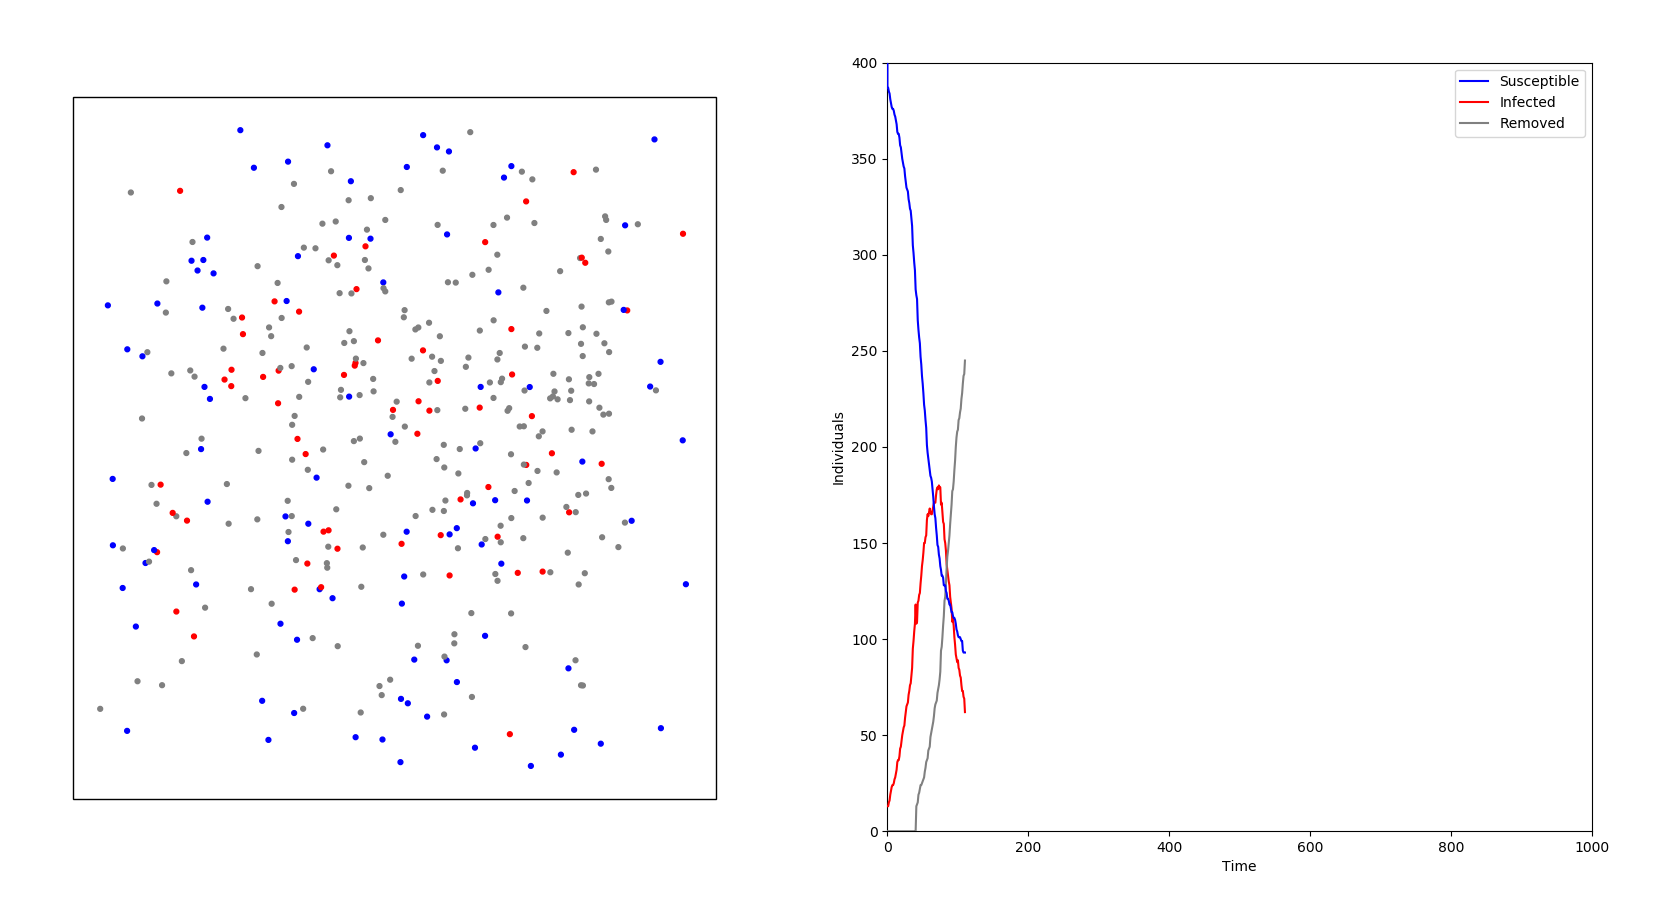
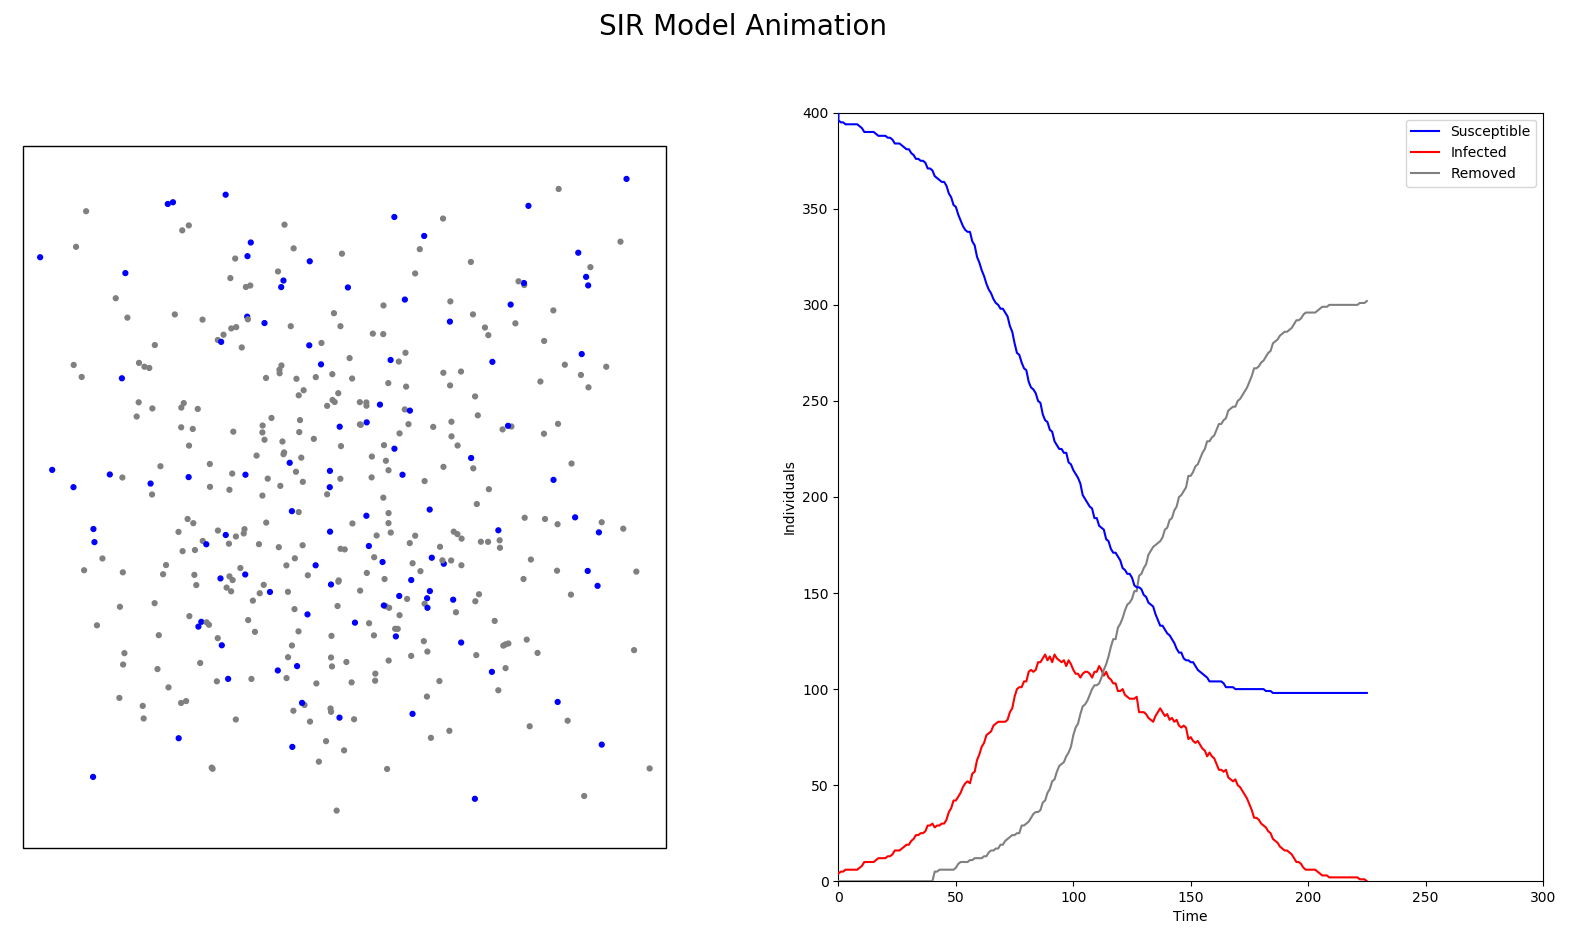
added save figure option and fixed quarantine probability feature.

diff --git a/Simulation.py b/Simulation.py
@@ -1,17 +1,21 @@
 from Individual import Individual
+import os
 import numpy as np
 import matplotlib.pyplot as plt
+from matplotlib import gridspec
 from matplotlib.animation import FuncAnimation
-from matplotlib.widgets import Button, Slider
+from datetime import datetime
 
 
 class SIRSimulation:
 
     def __init__(self, n_individuals=400, prct_infected=2, r_infection=2.5,
-                 p_infection=6, p_quarantine=0, t_recovery=40, different_recovery_times=False):
+                 p_infection=6, p_quarantine=0, t_recovery=40, different_recovery_times=False, save_figure=False,
+                 simulation_mode=False):
         # SIMULATION PARAMETERS
         self.isRunning = False
         self.wasStarted = False
+        self.simulation_mode = simulation_mode
         self.animation = None
         self.N_INDIVIDUALS = n_individuals  # number of individuals
         self.PRCT_INFECTED = prct_infected  # percentage of infected people at the beginning of the simulation (0-100%)
@@ -20,6 +24,8 @@ class SIRSimulation:
         self.P_QUARANTINE = p_quarantine  # percentage of the people in quarantine (0-100%)
         self.T_RECOVERY = t_recovery  # time taken to recover in number of frames (0-infinity)
         self.different_recovery_times = different_recovery_times  # rand recovery t for each ind btw.. 1 and t_recovery
+        self.save_figure = save_figure
+        self.fig_path = os.path.join(os.getcwd(), 'figs')
         self.n_infected = 0
         self.individuals = []
         self._init_individuals()
@@ -28,6 +34,7 @@ class SIRSimulation:
     def _init_individuals(self):
         # creating all the individuals in random positions and infecting some of them.
         for i in range(self.N_INDIVIDUALS):
+            # sample different infectrion probabilities for each individual, if True
             if self.different_recovery_times:
                 if np.random.uniform(0, 1, 1) > 0.5:
                     recovery_time = np.random.randint(1, self.T_RECOVERY)
@@ -35,39 +42,66 @@ class SIRSimulation:
                     recovery_time = self.T_RECOVERY
             else:
                 recovery_time = self.T_RECOVERY
+            # Dicide for each individual if quarantine or not with given quarantine probability
+            if self.P_QUARANTINE > 0:
+                prob_quarantine = np.random.choice(np.arange(0, 2), p=[1 - float(self.P_QUARANTINE / 100),
+                                                                       float(self.P_QUARANTINE / 100)])
+                prob_quarantine = bool(prob_quarantine)
+            else:
+                prob_quarantine = False
 
             p = Individual(i, np.random.random() * 100, np.random.random() * 100,
                            np.random.random() * 100, np.random.random() * 100,
-                           (np.random.random() + 0.5) * 100, recovery_time, False)
+                           (np.random.random() + 0.5) * 100, recovery_time, prob_quarantine)
 
+            # Infect individual by given prct
             if np.random.random() < self.PRCT_INFECTED / 100:
                 p.infect(0)
                 self.n_infected = self.n_infected + 1
-            if np.random.random() < self.P_QUARANTINE / 100:
-                p.fixedQuarantine = True
 
             self.individuals.append(p)
 
     def _init_figure(self):
         # create all the graphics
         self.fig = plt.figure(figsize=(20, 10))
-        self.fig.suptitle('SIR Model Animation', fontsize=20)
-        self.fig.canvas.set_window_title('SIR Model Animation')
-        self.ax = self.fig.add_subplot(1, 2, 1)
-        self.cx = self.fig.add_subplot(1, 2, 2)
-        self.ax.axis('off')
-        self.cx.axis([0, 300, 0, self.N_INDIVIDUALS])
-        self.scatter = self.ax.scatter([p.posx for p in self.individuals],
-                             [p.posy for p in self.individuals], c='blue', s=12)
-        self.box = plt.Rectangle((0, 0), 100, 100, fill=False)
-        self.ax.add_patch(self.box)
-        self.cvst, = self.cx.plot(self.n_infected, color="red", label="Infected")
-        self.rvst, = self.cx.plot(self.n_infected, color="gray", label="Removed")
-        self.svst, = self.cx.plot(self.n_infected, color='blue', label='Susceptible')
+        self.gridspec = self.fig.add_gridspec(ncols=2, nrows=3)
+        description = '- Number of individuals: {}\n'\
+                      '- Percent of initially infected individuals: {}\n' \
+                      '- Infection radius of an individual: {}\n' \
+                      '- Infection probabilty of an individual.: {}\n' \
+                      '- Quarantine probability: {}\n' \
+                      '- Timesteps until infected individual is removed: {}\n' \
+                      '- Different recovery times for each indiviual: {}\n' \
+                      '- Save Figure: {}'.format(self.N_INDIVIDUALS,
+                                               self.PRCT_INFECTED,
+                                               self.INFECTION_RADIUS,
+                                               self.INFECTION_PROBABILITY,
+                                               self.P_QUARANTINE,
+                                               self.T_RECOVERY,
+                                               self.different_recovery_times,
+                                               self.save_figure)
 
-        self.cx.legend(handles=[self.svst, self.cvst, self.rvst])
-        self.cx.set_xlabel("Time")
-        self.cx.set_ylabel("Individuals")
+        title = 'SIR Model Animation'
+        self.fig.suptitle(title, fontsize=20)
+        self.fig.canvas.set_window_title('SIR Model Animation')
+        self.text_plot = self.fig.add_subplot(self.gridspec[0,1])
+        self.text_plot.text(0.05,0, description, fontsize=18,  bbox=dict(facecolor='lightgreen', alpha=0.5))
+        self.kpis_plot = self.fig.add_subplot(self.gridspec[0:,0])
+        self.population_scatter = self.fig.add_subplot(self.gridspec[1:,1])
+        self.population_scatter.axis('off')
+        self.text_plot.axis('off')
+        self.kpis_plot.axis([0, 300, 0, self.N_INDIVIDUALS])
+        self.scatter = self.population_scatter.scatter([p.posx for p in self.individuals],
+                                                       [p.posy for p in self.individuals], c='blue', s=12)
+        self.box = plt.Rectangle((0, 0), 100, 100, fill=False)
+        self.population_scatter.add_patch(self.box)
+        self.cvst, = self.kpis_plot.plot(self.n_infected, color="red", label="Infected")
+        self.rvst, = self.kpis_plot.plot(self.n_infected, color="gray", label="Removed")
+        self.svst, = self.kpis_plot.plot(self.n_infected, color='blue', label='Susceptible')
+
+        self.kpis_plot.legend(handles=[self.svst, self.cvst, self.rvst])
+        self.kpis_plot.set_xlabel("Time")
+        self.kpis_plot.set_ylabel("Individuals")
 
         self.list_susceptible = [self.N_INDIVIDUALS]
         self.list_infected = [self.n_infected]
@@ -128,9 +162,27 @@ class SIRSimulation:
 
         return self.scatter, self.cvst, self.rvst, self.svst
 
+    def save_fig(self):
+        now = datetime.now().strftime('%Y%m%d')
+        figname = "{}_Simulation_n_individuals_{}_prct_infected_{}_infection_radius_{}_infection_prob_{}" \
+                  "_p_quarantine_{}_t_infected_{}_diff_recovery_times_{}.png".format(now, self.N_INDIVIDUALS,
+                                                                                     self.PRCT_INFECTED,
+                                                                                     self.INFECTION_RADIUS,
+                                                                                     self.INFECTION_PROBABILITY,
+                                                                                     self.P_QUARANTINE,
+                                                                                     self.T_RECOVERY,
+                                                                                     self.different_recovery_times)
+        full_figname = os.path.join(self.fig_path, figname)
+        self.fig.savefig(full_figname, dpi=400)
+        print('[SIM] Saved figure: {}'.format(full_figname))
+
     def pause_simualtion(self):
         self.isRunning = False
         self.animation.event_source.stop()
+        if self.save_figure:
+            self.save_fig()
+        if self.simulation_mode:
+            self.fig.close()
 
     def continue_simulation(self):
         self.isRunning = True

diff --git a/run.py b/run.py
@@ -14,12 +14,14 @@ def main(argv):
     prct_quarantine = 0  # percentage of the people in quarantine (0-100%)
     time_infected = 40  # time taken to recover/ remove in number of frames (0-infinity)
     random_recovery_time = False  # Different random recovery time for each individual; default is False
+    save_figure = False
     print('Number of passed arguments:', len(sys.argv))
 
     try:
-        opts, args = getopt.getopt(argv, "hn:p:r:i:q:t:z:", ["help", "n_individuals=", "prct_infected=",
-                                                             "infection_radius=", "infection_prob=", "prct_quarantine=",
-                                                             "time_infected=", "random_recovery_time="])
+        opts, args = getopt.getopt(argv, "hn:p:r:i:q:t:z:s:", ["save_figure=", "help", "n_individuals=",
+                                                               "prct_infected=", "infection_radius=", "infection_prob=",
+                                                               "prct_quarantine=", "time_infected=",
+                                                               "random_recovery_time="])
     except getopt.GetoptError as e:
         print('Excpetion!')
         print(e)
@@ -50,6 +52,9 @@ def main(argv):
             --random_recovery_time   Different random recovery time for each individual; default is False            
             -z                       Different random recovery time for each individual; default is False
             ###############################################################################################
+            --save_figure            Save the end result of the simulation; default is False
+            -s                       Save the end result of the simulation; default is False
+            ###############################################################################################
             """
             print(txt)
             sys.exit()
@@ -67,6 +72,8 @@ def main(argv):
             time_infected = int(arg)
         elif opt in ('-z', '--random_recovery_time'):
             random_recovery_time = bool(int(arg))
+        elif opt in ('-s', '--save_figure'):
+            save_figure = bool(int(arg))
 
     print('+++ Parameter +++')
     print('n_individuals: {}'.format(n_individuals))
@@ -76,11 +83,12 @@ def main(argv):
     print('prct_quarantine: {}'.format(prct_quarantine))
     print('time_infected: {}'.format(time_infected))
     print('random_recovery_time: {}'.format(random_recovery_time))
+    print('save_figure: {}'.format(save_figure))
     print('+++++++++++++++++')
 
     sim = SIRSimulation(n_individuals=n_individuals,prct_infected=prct_infected, r_infection=infection_radius,
                         p_infection=infection_prob, p_quarantine=prct_quarantine, t_recovery=time_infected,
-                        different_recovery_times=random_recovery_time)
+                        different_recovery_times=random_recovery_time, save_figure=save_figure)
     sim.run()
 
 

diff --git a/misc/playground.py b/misc/playground.py
@@ -1,24 +1,18 @@
 from collections import deque
 import numpy as np
+from datetime import datetime
 
+now = datetime.now().strftime('%Y%m%d')
+print(now)
 
-dq = deque(['e', 'e', 'e'])
-print(dq)
+n_1 = 0
+n_0 = 0
+for i in range(0,100):
+    ss = np.random.choice(np.arange(0,2), p=[0.4, 0.6])
+    if ss == 0:
+        n_0 +=1
+    elif ss == 1:
+        n_1 += 1
 
-dq.append('e')
-print(dq)
-dq.popleft()
-print(dq)
-
-
-print([0] * 10)
-print(set(dq))
-print(len(set(dq)) <= 1)
-
-
-s = np.random.uniform(0,1,1)
-print('S: {}'.format(s))
-
-if s > 0.5:
-    print('amk')
-    print(s)
+print(n_1)
+print(n_0)

diff --git a/README.md b/README.md
@@ -36,6 +36,9 @@ Command Line Arguments:
 --random_recovery_time   Different random recovery time for each individual; default is False            
 -z                       Different random recovery time for each individual; default is False
 ###############################################################################################
+--save_figure            Save the end result of the simulation; default is False
+-s                       Save the end result of the simulation; default is False
+###############################################################################################
 ```
 
 ### Example
